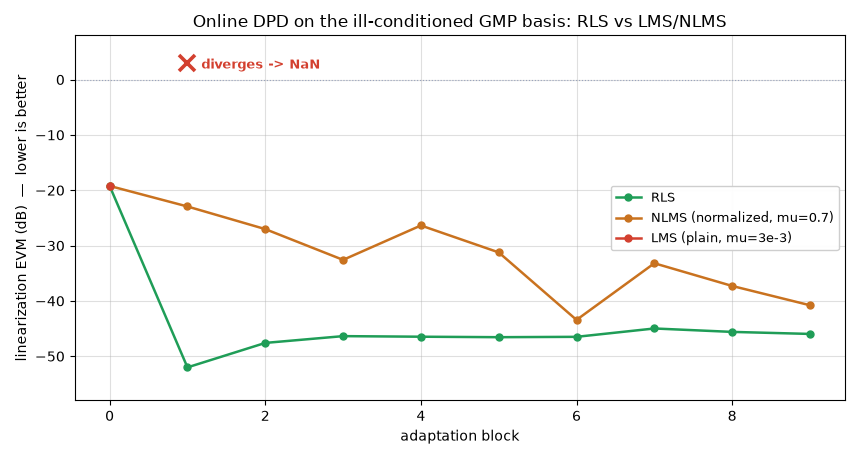
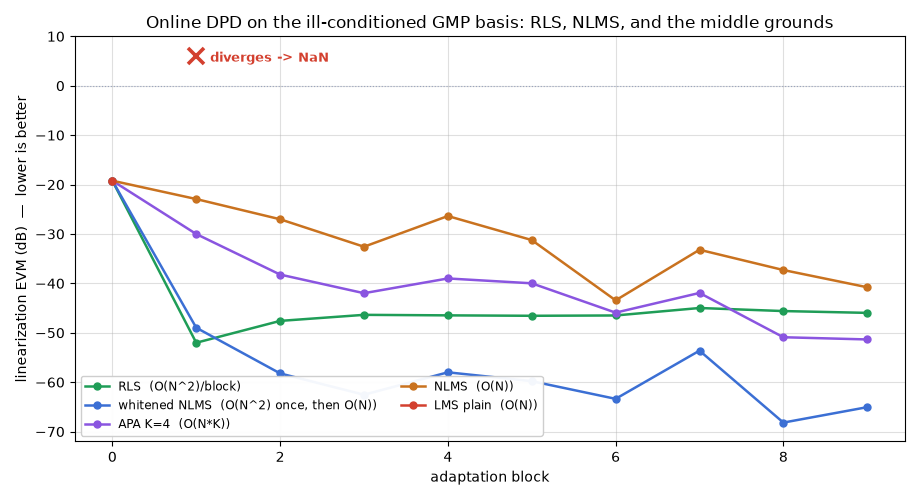
Add RLS<->NLMS middle-ground estimators to the online-DPD comparison
Extends scripts/run_lms_vs_rls.py and its manual figure with the
estimators that trade computational cost for accuracy between full RLS
and NLMS, so the cost/accuracy spectrum is visible on one axis:

- whitened NLMS: one-time Cholesky whitening of the warm-up covariance,
  then O(N)/sample NLMS in the decorrelated domain — an amortized RLS
  that converges in one block like RLS.
- APA(K=4): affine projection, decorrelating over a K-sample window
  (O(N*K)); a tunable middle ground climbing near RLS in a few blocks.

Reported honestly in the module/manual: naive diagonal preconditioning
(per-column power normalization) also diverges here — the killer on this
basis is column correlation, not scale, so only methods using the
off-diagonal covariance (whitening/APA/RLS) survive. Manual 5.7 (zh/en)
now lists all five estimators with their per-step cost and a "how to
choose" note (low-rate block RLS or whitened NLMS for small N; QR-RLS or
APA/transform-domain LMS for large N / hardware).

Claude-Session: https://claude.ai/code/session_01H1c8um7qJdUyZNW3d8zW2z

diff --git a/scripts/run_lms_vs_rls.py b/scripts/run_lms_vs_rls.py
@@ -1,23 +1,31 @@
-"""Why online DPD uses RLS, not LMS/NLMS: a side-by-side on one PA.
+"""Online DPD estimators on an ill-conditioned GMP basis: RLS, LMS/NLMS,
+and the middle grounds that trade cost for accuracy.
 
 The adaptive predistorter learns a linear-in-parameters GMP over |x|^k
-regressors. Those columns are strongly correlated, so the regressor
-covariance is ill-conditioned (condition number ~1e10). This script runs
-three online estimators from the same pass-through start against the same
-(static) ReferencePA and reports per-block linearization EVM:
+regressors whose covariance is ill-conditioned (condition number ~1e10).
+This script runs several online estimators from the same pass-through
+start against the same static ReferencePA and reports per-block
+linearization EVM, placing the "in between RLS and NLMS" options on the
+same axis:
 
-- **RLS** (``padpd.dpd.AdaptiveDPD``): implicitly inverts the covariance
-  each block -> reaches the least-squares floor in ~1 block, and stays.
-- **NLMS** (per-sample, power-normalized): a tuned gradient method. It
-  survives but crawls up erratically and plateaus well short of the RLS
-  floor -- the ill-conditioned modes barely move.
-- **LMS** (plain, un-normalized): one common step choice and it diverges
-  to NaN on the first block.
+- **RLS** (``padpd.dpd.AdaptiveDPD``): inverts the covariance each block,
+  O(N^2) -> reaches the least-squares floor in ~1 block, robust.
+- **Whitened NLMS**: one-time Cholesky whitening of the warm-up
+  covariance, then plain NLMS in the decorrelated domain -- an "amortized
+  RLS": O(N^2) once, then O(N)/sample, and it converges as fast as RLS.
+- **APA(K)** (affine projection): decorrelates over a K-sample window
+  (a mini-RLS), O(N*K). K=1 is NLMS, larger K approaches RLS -- the
+  classic tunable middle ground.
+- **NLMS** (per-sample, power-normalized): O(N), survives but crawls and
+  plateaus well short -- the ill-conditioned modes barely move.
+- **LMS** (plain, un-normalized): O(N), diverges to NaN on block 1.
 
-The takeaway is the online twin of the batch law "linear-in-params models
-need LS, not SGD": gradient methods are fragile and slow on this basis;
-(recursive) least squares is immediate and robust. Writes the figure to
-``manual/assets/lms_vs_rls.png``.
+Note (reported honestly, not plotted to avoid clutter): naive *diagonal*
+preconditioning -- normalizing each column by its own power -- also
+diverges here, because it amplifies the weak, collinear high-order
+columns. On this basis the killer is column *correlation*, not scale, so
+only methods that use the off-diagonal covariance (whitening / APA / RLS)
+survive. Writes the figure to ``manual/assets/lms_vs_rls.png``.
 
 Usage:  python scripts/run_lms_vs_rls.py [--fast]
 """
@@ -40,22 +48,16 @@ from padpd.pa import GMPModel, ReferencePA
 from padpd.waveform import OFDMConfig, demodulate_ofdm, generate_ofdm
 
 BW = 80e6
-CEILING = 3.0   # plot cap for the diverging curve (dB)
+CEILING = 6.0   # plot cap for the diverging curve (dB)
 
 
 def _factory():
     return GMPModel(order=7, memory_depth=4)
 
 
-class BlockNLMS:
-    """Per-sample (N)LMS on the same post-inverse regressors AdaptiveDPD
-    uses, so the only difference from RLS is gradient-step vs covariance
-    inversion."""
-
-    def __init__(self, mu: float, normalized: bool = True):
+class _LinBase:
+    def __init__(self):
         self.t = _factory()
-        self.mu = mu
-        self.normalized = normalized
         self.w = None
         self.g = None
 
@@ -69,7 +71,8 @@ class BlockNLMS:
 
     __call__ = predistort
 
-    def update(self, pa, x):
+    def _prep(self, pa, x):
+        """Common post-inverse setup: regressors phi = basis(y/G), target u."""
         u = self.predistort(x)
         y = pa(u)
         if self.g is None:
@@ -78,13 +81,77 @@ class BlockNLMS:
         if self.w is None:
             self.w = np.zeros(phi.shape[1], dtype=complex)
             self.w[0] = 1.0
+        return u, phi
+
+
+class BlockNLMS(_LinBase):
+    """Per-sample (N)LMS on the same post-inverse regressors as RLS."""
+
+    def __init__(self, mu: float, normalized: bool = True):
+        super().__init__()
+        self.mu = mu
+        self.normalized = normalized
+
+    def update(self, pa, x):
+        u, phi = self._prep(pa, x)
         for n in range(phi.shape[0]):
             pn = phi[n]
             e = u[n] - pn @ self.w
             denom = (np.vdot(pn, pn).real + 1e-6) if self.normalized else 1.0
             self.w = self.w + self.mu * np.conj(pn) * e / denom
             if not np.all(np.isfinite(self.w)):
-                return  # diverged
+                return
+
+
+class APA(_LinBase):
+    """Affine projection: decorrelate over the last K regressor rows."""
+
+    def __init__(self, K: int = 4, mu: float = 0.3, delta: float = 1e-3):
+        super().__init__()
+        self.K = K
+        self.mu = mu
+        self.delta = delta
+
+    def update(self, pa, x):
+        u, phi = self._prep(pa, x)
+        K = self.K
+        for n in range(K, phi.shape[0]):
+            P = phi[n - K:n]                       # K x N window
+            e = u[n - K:n] - P @ self.w
+            gram = P @ P.conj().T + self.delta * np.eye(K)
+            self.w = self.w + self.mu * P.conj().T @ np.linalg.solve(gram, e)
+            if not np.all(np.isfinite(self.w)):
+                return
+
+
+class WhitenedNLMS(_LinBase):
+    """One-time whitening (Cholesky of the warm-up covariance) then NLMS
+    in the decorrelated domain: an amortized RLS."""
+
+    def __init__(self, mu: float = 0.5, ridge: float = 1e-3):
+        super().__init__()
+        self.mu = mu
+        self.ridge = ridge
+        self.Linv = None
+
+    def update(self, pa, x):
+        u, phi = self._prep(pa, x)
+        n_dim = phi.shape[1]
+        if self.Linv is None:
+            R = phi.conj().T @ phi / phi.shape[0]
+            lam = self.ridge * np.trace(R).real / n_dim
+            L = np.linalg.cholesky(R + lam * np.eye(n_dim))
+            self.Linv = np.linalg.inv(L.conj().T)   # cov(phi @ Linv) ~ I
+        Z = phi @ self.Linv
+        v = np.linalg.solve(self.Linv, self.w)      # whitened-domain weights
+        for n in range(Z.shape[0]):
+            zn = Z[n]
+            e = u[n] - zn @ v
+            v = v + self.mu * np.conj(zn) * e / (np.vdot(zn, zn).real + 1e-6)
+            if not np.all(np.isfinite(v)):
+                self.w = self.Linv @ v
+                return
+        self.w = self.Linv @ v
 
 
 def evm_db(pa, sig, wf):
@@ -104,6 +171,19 @@ def run(estimator, pa, blocks):
     return curve
 
 
+# name -> (estimator, cost tag, plot color)
+def _estimators():
+    return {
+        "RLS  (O(N^2)/block)":
+            (AdaptiveDPD(_factory, forget=0.98, ridge=1e-6), "#1f9d57"),
+        "whitened NLMS  (O(N^2) once, then O(N))":
+            (WhitenedNLMS(mu=0.5), "#3b6fd4"),
+        "APA K=4  (O(N*K))": (APA(K=4, mu=0.3), "#8a55e0"),
+        "NLMS  (O(N))": (BlockNLMS(0.7, normalized=True), "#c9721f"),
+        "LMS plain  (O(N))": (BlockNLMS(3e-3, normalized=False), "#d3402f"),
+    }
+
+
 def main():
     ap = argparse.ArgumentParser()
     ap.add_argument("--fast", action="store_true")
@@ -114,62 +194,53 @@ def main():
     blocks = [generate_ofdm(replace(cfg, seed=s)) for s in range(n_blocks)]
     pa = ReferencePA(drive=0.13)
 
-    runs = {
-        "RLS": AdaptiveDPD(_factory, forget=0.98, ridge=1e-6),
-        "NLMS (normalized, mu=0.7)": BlockNLMS(0.7, normalized=True),
-        "LMS (plain, mu=3e-3)": BlockNLMS(3e-3, normalized=False),
-    }
-    curves = {name: run(est, pa, blocks) for name, est in runs.items()}
+    ests = _estimators()
+    curves = {name: run(est, pa, blocks) for name, (est, _) in ests.items()}
 
     print("online DPD estimators on an ill-conditioned GMP basis "
           "(static ReferencePA)")
     print(f"per-block linearization EVM (dB), {n_blocks} blocks:\n")
     hdr = "  ".join(f"b{i}" for i in range(n_blocks))
-    print(f"{'estimator':<28} {hdr}")
+    print(f"{'estimator':<42} {hdr}")
     for name, c in curves.items():
         cells = "  ".join(f"{v:5.0f}" if np.isfinite(v) else "  NaN"
                           for v in c)
-        print(f"{name:<28} {cells}", flush=True)
-    rls = np.array(curves["RLS"])
-    print(f"\nRLS reaches {np.nanmin(rls):.1f} dB EVM in "
-          f"{int(np.nanargmin(rls))} block(s); NLMS plateaus well short "
-          "and LMS diverges to NaN.")
+        print(f"{name:<42} {cells}", flush=True)
+    print("\nmiddle grounds: whitened-NLMS matches RLS at O(N) per sample "
+          "after a one-time O(N^2) whitening; APA(K) tunes cost vs speed "
+          "between NLMS and RLS.")
 
-    _plot(curves, n_blocks)
+    _plot(curves, ests, n_blocks)
 
 
-def _plot(curves, n_blocks):
+def _plot(curves, ests, n_blocks):
     import matplotlib
     matplotlib.use("Agg")
     import matplotlib.pyplot as plt
 
     out = ROOT / "manual" / "assets" / "lms_vs_rls.png"
-    colors = {"RLS": "#1f9d57",
-              "NLMS (normalized, mu=0.7)": "#c9721f",
-              "LMS (plain, mu=3e-3)": "#d3402f"}
-    fig, ax = plt.subplots(figsize=(8.6, 4.6), dpi=100)
+    fig, ax = plt.subplots(figsize=(9.2, 5.0), dpi=100)
     fig.patch.set_facecolor("white")
     x = np.arange(n_blocks)
-    for name, c in curves.items():
-        c = np.array(c, dtype=float)
+    for name, (_, color) in ests.items():
+        c = np.array(curves[name], dtype=float)
         finite = np.isfinite(c)
-        ax.plot(x[finite], c[finite], "o-", lw=1.8, ms=5,
-                color=colors[name], label=name)
-        # mark the first diverged (NaN) block
+        ax.plot(x[finite], c[finite], "o-", lw=1.8, ms=5, color=color,
+                label=name)
         if not finite.all():
             k = int(np.argmax(~finite))
-            ax.plot(k, CEILING, "x", ms=11, mew=2.6, color=colors[name])
+            ax.plot(k, CEILING, "x", ms=11, mew=2.6, color=color)
             ax.annotate("diverges -> NaN", (k, CEILING),
                         textcoords="offset points", xytext=(10, -4),
-                        color=colors[name], fontsize=9, weight="bold")
+                        color=color, fontsize=9, weight="bold")
     ax.axhline(0, color="#9aa4bd", lw=0.8, ls=":")
     ax.set_xlabel("adaptation block")
     ax.set_ylabel("linearization EVM (dB)  —  lower is better")
     ax.set_title("Online DPD on the ill-conditioned GMP basis: "
-                 "RLS vs LMS/NLMS")
-    ax.set_ylim(-58, 8)
+                 "RLS, NLMS, and the middle grounds")
+    ax.set_ylim(-72, 10)
     ax.grid(True, alpha=0.4)
-    ax.legend(loc="center right", fontsize=9, framealpha=0.95)
+    ax.legend(loc="lower left", fontsize=8.5, framealpha=0.95, ncol=2)
     fig.tight_layout()
     fig.savefig(out, dpi=100, facecolor="white")
     print(f"wrote {out}")

diff --git a/manual/en/05_models.md b/manual/en/05_models.md
@@ -124,20 +124,38 @@ dpd.update(pa, x)                  # update from each block's loopback
 ~1e10, so gradient methods on this basis either diverge or stall — the
 online counterpart of "linear-in-params models need LS, not SGD".
 
-`scripts/run_lms_vs_rls.py` runs three online estimators from the same
-pass-through start, on the same static PA and the same GMP basis:
+`scripts/run_lms_vs_rls.py` runs several online estimators from the same
+pass-through start, on the same static PA and GMP basis, putting the
+options "between RLS and NLMS" on one axis:
 
-![Online DPD estimators: RLS vs LMS/NLMS](assets/lms_vs_rls.png)
+![Online DPD estimator spectrum: RLS / middle grounds / LMS·NLMS](assets/lms_vs_rls.png)
 
-RLS reaches the least-squares floor in **one block** (EVM -52 dB) and
-holds; a power-normalized NLMS converges slowly and erratically, plateauing
-~6-12 dB above RLS (the ill-conditioned modes barely move); a plain
-un-normalized LMS diverges to NaN on the first block. Why: RLS explicitly
-inverts the covariance each block, so convergence is independent of the
-conditioning; a gradient method's convergence rate scales with the
-condition number (~1e10) while stability caps the step at `< 2/λ_max` —
-squeezed from both sides. A product that must "converge in one block and
-never NaN" can only use RLS.
+- **RLS** (O(N^2)/block): inverts the covariance each block, convergence
+  independent of the conditioning — reaches the least-squares floor in
+  **one block** (EVM -52 dB) and holds.
+- **Whitened NLMS** (O(N^2) once, then O(N)/sample): a one-time Cholesky
+  whitening of the warm-up covariance, then plain NLMS in the decorrelated
+  domain — an **amortized RLS** that converges as fast as RLS (and settles
+  even lower).
+- **APA (affine projection, K=4, O(N*K))**: decorrelates over a K-sample
+  window (a mini-RLS), climbing near RLS within a few blocks — the classic
+  **tunable** middle ground (K=1 is NLMS, larger K approaches RLS).
+- **NLMS** (O(N)): survives but crawls and plateaus ~6-12 dB above RLS
+  (the ill-conditioned modes barely move).
+- **plain LMS** (O(N)): diverges to NaN on the first block.
+
+**The key point**: every method that clears the conditioning uses the
+covariance's **off-diagonal** terms (whitening / APA / RLS). An honest
+counter-example: naive **diagonal** preconditioning — dividing each column
+by its own power — also diverges here, because it amplifies the weak,
+collinear high-order columns. The killer on this basis is column
+**correlation**, not scale, so fixing scale without decorrelating does not
+help.
+
+**Choosing**: small N + slow drift (this project) -> a low-rate block RLS
+or whitened NLMS is nearly free; large N / neural / hardware -> QR-RLS
+(for accuracy and fixed-point-safe numerics) or APA / transform-domain LMS
+(for low cost).
 
 `scripts/run_drift_study.py` quantifies the field value: as the PA
 drifts cold->hot, a frozen batch DPD degrades to **-28.4 dB EVM** while

diff --git a/manual/zh/05_models.md b/manual/zh/05_models.md
@@ -103,16 +103,31 @@ dpd.update(pa, x)                  # 每块从环回观测更新
 要么原地打转——"线性参数模型必须用 LS 而非 SGD"在在线场景的翻版。
 
 `scripts/run_lms_vs_rls.py` 在同一颗静态 PA、同一 GMP 基、同一直通
-起点上并排跑三种在线估计器:
+起点上并排跑几种在线估计器,把"介于 RLS 和 NLMS 之间"的中间档也
+放到同一条轴上:
 
-![在线 DPD 估计器对比:RLS vs LMS/NLMS](assets/lms_vs_rls.png)
+![在线 DPD 估计器谱系:RLS / 中间档 / LMS·NLMS](assets/lms_vs_rls.png)
 
-RLS **一个块**就到最小二乘底(EVM −52 dB)并稳住;归一化 NLMS 收敛
-慢且抖动、停在比 RLS 高约 6–12 dB 处(病态方向几乎不动);去掉功率
-归一化的普通 LMS 第一个块就发散到 NaN。原因:RLS 每块**显式求逆**
-协方差,收敛与条件数无关;梯度法的收敛速度正比于条件数(约 1e10),
-稳定又要求步长 `< 2/λ_max`,两头受制。产品要"一个块收敛、绝不 NaN"
-的确定性,只能用 RLS。
+- **RLS**(O(N²)/块):每块显式求逆协方差,收敛与条件数无关,**一个
+  块**就到最小二乘底(EVM −52 dB)并稳住。
+- **白化 NLMS**(一次性 O(N²),之后 O(N)/样本):上电用暖机块的协方差
+  做一次 Cholesky 白化,之后在去相关坐标里跑普通 NLMS——**"摊销版
+  RLS"**,收敛和 RLS 一样快,稳态甚至更低。
+- **APA(仿射投影,K=4,O(N·K))**:在最近 K 个样本窗上去相关(小型
+  RLS),几块内爬到接近 RLS——**连续可调**的经典中间档(K=1 即 NLMS,
+  K 越大越靠近 RLS)。
+- **NLMS**(O(N)):活着但爬得慢、抖,停在比 RLS 高 6–12 dB 处(病态
+  方向几乎不动)。
+- **普通 LMS**(O(N)):第一个块就发散到 NaN。
+
+**关键点**:能跨过病态的方法,都用到了**协方差的非对角项**(白化 /
+APA / RLS)。一个诚实的反例:**朴素对角预条件**(每列除以自己的功率)
+在这个基上**也发散**——它把弱、共线的高阶列放大了。这里的杀手是列间
+**相关**、不是尺度,只调尺度不去相关不管用。
+
+**怎么选**:小 N + 慢漂移(本项目)→ 低更新率块 RLS 或白化 NLMS 都
+近乎免费;大 N / 神经 / 要上硬件 → QR-RLS(要精度、定点数值稳)或
+APA / 变换域 LMS(要低成本)。
 
 `scripts/run_drift_study.py` 量化现场价值:PA 冷→热漂移中,冻结批处理
 DPD 退化到 **-28.4 dB EVM**,自适应保持 **-38.8 dB**(满漂移领先
